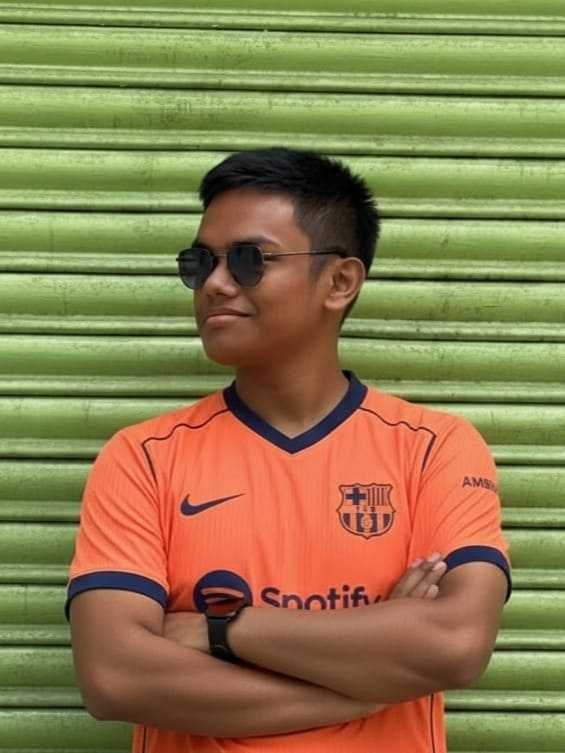
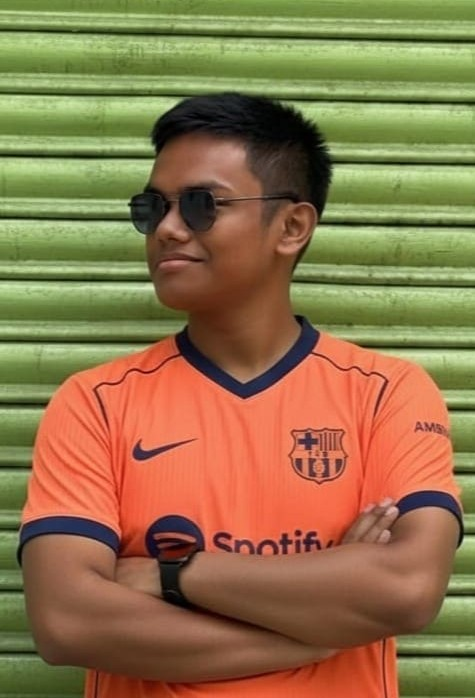
feat: in end credits, pictures will be shuffled before showing, add missing 33.jpg, do some minor changes in design.

diff --git a/src/pages/Prologue.jsx b/src/pages/Prologue.jsx
@@ -176,6 +176,10 @@ const StickyNoteMini = ({ post, index }) => {
           <div className="push-pin -top-3" />
 
           <div className="absolute inset-0 opacity-20 pointer-events-none" style={{ backgroundImage: 'repeating-linear-gradient(transparent, transparent 27px, #4A90E2 27px, #4A90E2 28px)', backgroundSize: '100% 28px' }} />
+          
+          {/* Red vertical margin line for classical notebook effect */}
+          <div className="absolute left-[28px] top-0 bottom-0 w-[1px] bg-red-800/20 pointer-events-none"></div>
+          <div className="absolute left-[26px] top-0 bottom-0 w-[1px] bg-red-800/10 pointer-events-none"></div>
 
           {/* Text — blurred by default on desktop, clear on hover */}
           <div
@@ -280,7 +284,7 @@ const InteractiveCastCard = ({ person, idx, containerRef, updateZIndex, currentZ
 
           {/* Oneliner - Filling the space */}
           <div className="flex-1 relative z-10 w-full pt-1 overflow-hidden" data-photo="true">
-            <p className="text-[#2c3e50] font-['Caveat'] text-lg md:text-xl leading-[28px] pointer-events-none text-left">
+            <p className="text-[#2c3e50] font-['Caveat'] text-lg md:text-md leading-[28px] pointer-events-none text-left">
               "{person.oneliner || 'A familiar face from those moments that still linger.'}"
             </p>
           </div>
@@ -353,16 +357,21 @@ const LetterToBatch = () => {
 
           {/* Main Letter Box */}
           <div
-            className="relative bg-[#FDFBF7] p-10 md:p-14 lg:p-18 shadow-[0_20px_60px_rgba(0,0,0,0.15)] border border-[#E5DFD3]"
+            className="relative bg-[#FDFBF7] p-10 md:p-14 shadow-[0_20px_60px_rgba(0,0,0,0.15)] border border-[#E5DFD3]"
             style={{
               backgroundImage: "url('/textures/rice-paper.png')",
             }}
           >
             {/* Elegant Tape (Optimized without blur) */}
-            <div className="absolute -top-4 left-1/2 -translate-x-1/2 w-32 h-8 bg-white/70 rotate-1 z-20 border border-white/20 shadow-[0_2px_10px_rgba(0,0,0,0.05)]"></div>
+            <div className="absolute -top-4 left-1/2 -translate-x-1/2 w-32 h-8 bg-white/60 rotate-1 z-20 border border-white/20 shadow-[0_2px_10px_rgba(0,0,0,0.05)]"></div>
+            {/* Pin */}
+            <div className="push-pin -top-3" />
 
             {/* Subtle Ruled Lines */}
             <div className="absolute inset-0 opacity-[0.2] pointer-events-none" style={{ backgroundImage: 'repeating-linear-gradient(transparent, transparent 27px, #4A90E2 27px, #4A90E2 28px)', backgroundSize: '100% 32px' }} />
+            {/* Red vertical margin line for classical notebook effect */}
+            <div className="absolute left-8 top-0 bottom-0 w-[1px] bg-red-800/20 pointer-events-none"></div>
+            <div className="absolute left-[34px] top-0 bottom-0 w-[1px] bg-red-800/10 pointer-events-none"></div>
 
             {/* Premium Wax Seal */}
             <motion.div
@@ -385,14 +394,14 @@ const LetterToBatch = () => {
             </motion.div>
 
             {/* Letter Content */}
-            <div className="relative z-10 text-[#3A332A]" data-photo="true">
-              <h2 className="font-['Caveat'] text-4xl md:text-5xl text-[#8B2323] mb-8 mt-2 sm:mt-0 font-bold transform -rotate-1">
+            <div className="relative z-10 text-[#3A332A] opacity-95" data-photo="true">
+              <h2 className="font-['Caveat'] text-4xl md:text-5xl text-[#8B2323] mb-11 mt-2 font-bold underline decoration-wavy decoration-[0.1rem] sm:decoration-[0.18rem] underline-offset-10 transform -rotate-1">
                 Dearest Batch of 2026,
               </h2>
-              {/* Scrollable letter body with fade hint */}
+              {/* Scrollable letter body*/}
               <div className="relative">
                 <div
-                  className="space-y-6 font-['Caveat'] text-[20px] md:text-[26px] leading-[32px] md:leading-[32px] text-gray-800/90 overflow-y-auto pr-2 styling-scrollbar"
+                  className="space-y-6 font-['Caveat'] text-[20px] md:text-[26px] leading-[30px] md:leading-[34px] text-gray-800/90 overflow-y-auto pr-2 styling-scrollbar"
                   style={{ maxHeight: '500px' }}
                 >
                   <p>
@@ -407,20 +416,20 @@ const LetterToBatch = () => {
                   </div>
 
                   <p>
-                    If these years taught us anything, it's that time is the only currency we can't earn back. We learned that friendship isn't about being inseparable, but about being able to separate and knowing that nothing will change. Some of us will drift, and that is life’s natural rhythm; but the ink of these days is permanent.
+                    If these years taught us anything, it's that time is the only currency we can't earn back. Somewhere between deadlines and detours, we learned that friendship isn’t measured by constant presence, but by quiet certainty - the kind that survives distance, silence, and change. Some of us will drift, and that is life’s natural rhythm; but the ink of these days can never be erased...
                   </p>
 
                   <p>
-                    As we scatter into the unknown, carry these days not as a heavy anchor, but as a sail. No matter where life takes us or how many miles lie between us, we will always be the keepers of this shared story. Let us remain this way-kind, brave, and connected - carrying the spirit of these days into every new chapter we write. 
+                    As we scatter into the unknown, carry these days not as a weight, but as a wind - let them move you forward. 'Cause no matter where life takes us or how many miles lie between us, we will always be the keepers of this shared story. Let us remain this way - kind, brave, and connected - carrying the spirit of these days into every new chapter we write.
                   </p>
 
-                  <p>We may leave as individuals, but we’ll always be this batch - this family. We were here, we were together, and we’ll always be 'us'... <span className='text-[#8B2323] font-bold'>:)</span> </p>
-                  
+                  <p>We may leave as individuals, but we’ll always be this batch - this family. We were here, we were together, and we’ll always be 'us'... <span className='text-[#8B2323] font-bold sm:hidden inline'>:)</span> </p>
+
                 </div>
               </div>
 
               {/* Signature */}
-              <div className="mt-10 text-right">
+              <div className="mt-6 text-right">
                 <span className="font-['Caveat'] text-2xl md:text-3xl font-bold text-[#8B2323] inline-block transform -rotate-2">
                   — The Memories We Made
                 </span>
@@ -524,7 +533,7 @@ const Prologue = () => {
         <section className="py-24 md:py-30 relative z-20">
           <div className="max-w-[1400px] mx-auto px-4 flex flex-col lg:flex-row items-center justify-between gap-12 lg:gap-24">
 
-            <motion.div 
+            <motion.div
               initial={{ opacity: 0, y: 30 }}
               whileInView={{ opacity: 1, y: 0 }}
               viewport={{ once: true, margin: "-50px" }}
@@ -577,7 +586,7 @@ const Prologue = () => {
             <div className="max-w-[1400px] mx-auto px-4 flex flex-col lg:flex-row items-center justify-between gap-12 lg:gap-24">
 
               {/* Left Text */}
-              <motion.div 
+              <motion.div
                 initial={{ opacity: 0, y: 30 }}
                 whileInView={{ opacity: 1, y: 0 }}
                 viewport={{ once: true, margin: "-50px" }}
@@ -642,7 +651,7 @@ const Prologue = () => {
           <div className="max-w-[1400px] mx-auto px-4 flex flex-col lg:flex-row items-center justify-between gap-12 lg:gap-24">
 
             {/* Left Text */}
-            <motion.div 
+            <motion.div
               initial={{ opacity: 0, y: 30 }}
               whileInView={{ opacity: 1, y: 0 }}
               viewport={{ once: true, margin: "-50px" }}
@@ -712,7 +721,7 @@ const Prologue = () => {
         <section className="py-24 md:py-30 relative z-20">
           <div className="max-w-[1400px] mx-auto px-4 text-center relative">
 
-            <motion.div 
+            <motion.div
               initial={{ opacity: 0, y: 30 }}
               whileInView={{ opacity: 1, y: 0 }}
               viewport={{ once: true, margin: "-50px" }}

diff --git a/src/pages/TheCast.jsx b/src/pages/TheCast.jsx
@@ -219,7 +219,7 @@ const CastDossier = ({ person, onClose }) => {
                 {person.funnyPhoto && (
                   <DraggableItem constraintsRef={constraintsRef} defaultLeft={pos.photo2.left} defaultTop={pos.photo2.top} initialRotate={7} delay={0.25}>
                     <div style={{ position: 'absolute', top: -8, left: '50%', transform: 'translateX(-50%) rotate(-2deg)', width: 55, height: 18, background: 'rgba(180,210,240,0.75)', backdropFilter: 'blur(2px)', zIndex: 30, clipPath: 'polygon(0 10%,3% 0%,6% 10%,9% 0%,12% 8%,15% 0%,100% 0%,100% 100%,0% 100%)' }} />
-                    <div style={{ background: '#f5f0e0', padding: '8px 8px 28px', width: isMobile ? 160 : 200, boxShadow: '3px 6px 22px rgba(0,0,0,0.35)', clipPath: 'polygon(1% 0%,4% 1.5%,8% 0%,13% 1%,18% 0%,23% 1.5%,28% 0%,33% 1%,38% 0%,43% 1.5%,48% 0%,53% 1%,58% 0%,63% 1.5%,68% 0%,73% 1%,78% 0%,83% 1.5%,88% 0%,93% 1%,98% 0%,100% 0%,100% 100%,0% 100%)', filter: 'sepia(0.1)' }}>
+                    <div style={{ background: '#f5f0e0', padding: '8px 8px 28px', width: isMobile ? 160 : 200, boxShadow: '3px 6px 22px rgba(0,0,0,0.35)', clipPath: 'polygon(1% 0%,4% 1.5%,8% 0%,13% 1%,18% 0%,23% 1.5%,28% 0%,33% 1%,38% 0%,43% 1.5%,48% 0%,53% 1%,58% 0%,63% 1.5%,68% 0%,73% 1%,78% 0%,83% 1.5%,88% 0%,93% 1%,98% 0%,100% 0%,100% 100%,0% 100%)', filter: 'sepia(0.2)' }}>
                       <div style={{ backgroundImage: (person.funnyPhoto?.startsWith('http') || person.funnyPhoto?.startsWith('/')) ? `url('${person.funnyPhoto}')` : person.funnyPhoto, backgroundSize: 'cover', backgroundPosition: 'center top', width: '100%', aspectRatio: '9/10', filter: 'sepia(0.3) contrast(1.04)' }} />
                       <p style={{ fontFamily: 'Caveat,cursive', fontSize: 18, color: '#451a03', fontWeight: 700, textAlign: 'center', marginTop: 8, opacity: 0.8 }}>“Time well lived...”</p>
                     </div>
@@ -228,9 +228,9 @@ const CastDossier = ({ person, onClose }) => {
 
                 {/* 3. Handwritten note */}
                 <DraggableItem constraintsRef={constraintsRef} defaultLeft={pos.note.left} defaultTop={pos.note.top} initialRotate={-5} delay={0.4}>
-                  <div style={{ width: isMobile ? 180 : 265, background: '#fdfaf0', padding: '22px 16px 18px', boxShadow: '3px 8px 22px rgba(0,0,0,0.28)', backgroundImage: 'repeating-linear-gradient(#fdfaf0 0px,#fdfaf0 27px,rgba(96,152,204,0.5) 27px,rgba(96,152,204,0.5) 28px)', backgroundSize: '100% 28px', backgroundPosition: '0 4px', borderLeft: '3px solid rgba(220,80,80,0.35)', clipPath: 'polygon(0 0,100% 0,100% 94%,97% 96%,94% 94%,91% 97%,88% 94%,85% 97%,82% 94%,79% 97%,76% 94%,73% 97%,70% 94%,67% 97%,64% 94%,61% 97%,58% 94%,55% 97%,52% 94%,49% 97%,46% 94%,43% 97%,40% 94%,37% 97%,34% 94%,31% 97%,28% 94%,25% 97%,22% 94%,19% 97%,16% 94%,13% 97%,10% 94%,7% 97%,4% 94%,1% 97%,0 94%)' }}>
+                  <div style={{ width: isMobile ? 200 : 275, background: '#fdfaf0', padding: '22px 16px 18px', boxShadow: '3px 8px 22px rgba(0,0,0,0.28)', backgroundImage: 'repeating-linear-gradient(#fdfaf0 0px,#fdfaf0 27px,rgba(96,152,204,0.5) 27px,rgba(96,152,204,0.5) 28px)', backgroundSize: '100% 28px', backgroundPosition: '0 4px', borderLeft: '3px solid rgba(220,80,80,0.35)', clipPath: 'polygon(0 0,100% 0,100% 94%,97% 96%,94% 94%,91% 97%,88% 94%,85% 97%,82% 94%,79% 97%,76% 94%,73% 97%,70% 94%,67% 97%,64% 94%,61% 97%,58% 94%,55% 97%,52% 94%,49% 97%,46% 94%,43% 97%,40% 94%,37% 97%,34% 94%,31% 97%,28% 94%,25% 97%,22% 94%,19% 97%,16% 94%,13% 97%,10% 94%,7% 97%,4% 94%,1% 97%,0 94%)' }}>
                     <div style={{ position: 'absolute', top: 10, left: '50%', transform: 'translateX(-50%)', width: 14, height: 14, borderRadius: '50%', background: 'rgba(200,180,140,0.6)', border: '1.5px solid rgba(160,130,90,0.5)' }} />
-                    <p style={{ fontFamily: 'Caveat,cursive', fontSize: isMobile ? 18 : 22, color: '#3d1a00', lineHeight: '28px', paddingTop: 4, textAlign: 'center' }}>&ldquo;{person.oneliner || 'A familiar face from those moments that still linger.'}&rdquo;</p>
+                    <p style={{ fontFamily: 'Caveat,cursive', fontSize: isMobile ? 20 : 24, color: '#3d1a00', lineHeight: '28px', paddingTop: 4, textAlign: 'center' }}>&ldquo;{person.oneliner || 'A familiar face from those moments that still linger.'}&rdquo;</p>
                     <p style={{ fontFamily: 'Caveat,cursive', fontSize: 15, color: 'rgba(120,53,15,0.55)', textAlign: 'right', marginTop: 6 }}>— a note ✦</p>
                   </div>
                 </DraggableItem>

diff --git a/src/pages/OurNotes.jsx b/src/pages/OurNotes.jsx
@@ -42,12 +42,16 @@ const PremiumStickyNote = ({ post, index }) => {
           {/* Ruled Lines */}
           <div className="absolute inset-0 opacity-20 pointer-events-none" style={{ backgroundImage: 'repeating-linear-gradient(transparent, transparent 27px, #4A90E2 27px, #4A90E2 28px)', backgroundSize: '100% 28px' }} />
 
+          {/* Red vertical margin line for classical notebook effect */}
+          <div className="absolute left-[28px] top-0 bottom-0 w-[1px] bg-red-800/20 pointer-events-none"></div>
+          <div className="absolute left-[26px] top-0 bottom-0 w-[1px] bg-red-800/10 pointer-events-none"></div>
+
           {/* Doodles inside note */}
           {showHeart && <DoodleHeart className="absolute top-4 left-2 w-10 h-10 opacity-40 -rotate-[15deg] mix-blend-multiply" color="#8B2323" />}
           {showCrown && <DoodleCrown className="absolute top-2 right-2 w-10 h-10 rotate-12 opacity-40 mix-blend-multiply" color="#1e3a8a" />}
 
           {/* Content */}
-          <div className={`font-['Caveat'] ${textSize} leading-[28px] text-[#2c3e50] w-full mt-2 text-center styling-scrollbar relative z-10`} style={contentStyle} data-photo="true">
+          <div className={`font-['Caveat'] ${textSize} leading-[28px] text-[#2c3e50] w-full mt-2 text-center opacity-95 styling-scrollbar relative z-10`} style={contentStyle} data-photo="true">
             "{post.content}"
           </div>
 
@@ -68,13 +72,13 @@ const PremiumStickyNote = ({ post, index }) => {
 
           {/* Footer Info */}
           <div className="mt-8 w-full flex justify-between items-end border-t border-black/5 pt-4 relative z-10">
-            <span className="font-['Caveat'] text-2xl font-bold text-[#1e3a8a]">{post.author}</span>
+            <span className="font-['Caveat'] text-2xl font-bold text-[#1e3a8a] opacity-90">{post.author}</span>
             <span className="text-[10px] text-[#8b95a5] font-sans tracking-[0.15em] uppercase font-semibold">{new Date(post.timestamp).toLocaleDateString()}</span>
           </div>
 
           {/* Vintage Round Stamp */}
           <div
-            className="absolute bottom-3 right-3 w-[72px] h-[72px] border-[2.5px] border-red-800/50 rounded-full flex items-center justify-center rotate-[-15deg] z-30 opacity-50 shadow-sm pointer-events-none"
+            className="absolute bottom-3 right-3 w-[72px] h-[72px] border-[2.5px] border-red-800/50 rounded-full flex items-center justify-center rotate-[-15deg] z-30 opacity-40 shadow-sm pointer-events-none"
           >
             <div className="border-[1.5px] border-dashed border-red-800/50 rounded-full w-[60px] h-[60px] flex items-center justify-center text-center leading-none">
               <span className="text-[10px] font-bold text-red-800/70 uppercase tracking-tighter block mt-0.5">

diff --git a/src/components/ui/EndCredits.jsx b/src/components/ui/EndCredits.jsx
@@ -211,9 +211,24 @@ const DoodleLayer = () => (
 );
 
 
+// ── Fisher-Yates shuffle helper ────────────────────────────────────────────────
+function shuffleArray(arr) {
+  const a = [...arr];
+  for (let i = a.length - 1; i > 0; i--) {
+    const j = Math.floor(Math.random() * (i + 1));
+    [a[i], a[j]] = [a[j], a[i]];
+  }
+  return a;
+}
+
 // ── Film strip ─────────────────────────────────────────────────────────────────
 const FilmStrip = ({ isPaused }) => {
-  const frames = [...galleryData, ...galleryData];
+  // Shuffle once per mount so every credits play shows a different order;
+  // duplicate for seamless infinite loop
+  const frames = React.useMemo(() => {
+    const shuffled = shuffleArray(galleryData);
+    return [...shuffled, ...shuffled];
+  }, []);
   const filmRef = useRef(null);
 
   useEffect(() => {
@@ -263,10 +278,10 @@ const FilmStrip = ({ isPaused }) => {
                 background: 'linear-gradient(to top, rgba(8, 5, 0, 0.92) 0%, transparent 100%)',
                 padding: '18px 8px 6px',
               }}>
-                <p style={{ fontFamily: MONO, fontSize: '1rem', color: 'rgba(220,160,20,0.9)', margin: 0, overflow: 'hidden', textOverflow: 'ellipsis', whiteSpace: 'nowrap' }}>
+                <p style={{ fontFamily: MONO, fontSize: '0.8rem', color: 'rgba(220,160,20,0.9)', margin: 0, overflow: 'hidden', textOverflow: 'ellipsis', whiteSpace: 'nowrap' }}>
                   {photo.caption}
                 </p>
-                <p style={{ fontFamily: MONO, fontSize: '0.9rem', color: 'rgba(200,140,20,0.45)', margin: '2px 0 0', letterSpacing: '0.2em' }}>
+                <p style={{ fontFamily: MONO, fontSize: '0.7rem', color: 'rgba(200,140,20,0.45)', margin: '2px 0 0', letterSpacing: '0.2em' }}>
                   {String((i % galleryData.length) + 1).padStart(2, '0')} / {galleryData.length} ▲ {photo.year}
                 </p>
               </div>

diff --git a/src/pages/Scrapbook.jsx b/src/pages/Scrapbook.jsx
@@ -7,7 +7,7 @@ import GalleryGrid from '../components/sections/ScrapbookGrid';
 import Lightbox from '../components/ui/Lightbox';
 import ChapterNav from '../components/ui/ChapterNav';
 import Fireflies from '../components/ui/Fireflies';
-import { DoodleSparkle, DoodleArrow, DoodleCrown } from '../components/ui/VintageDoodles';
+import { DoodleSparkle, DoodleArrow } from '../components/ui/VintageDoodles';
 import { galleryData } from '../data/scrapbook';
 
 const years = ["All", "1st Year", "2nd Year", "3rd Year", "4th Year"];
@@ -79,7 +79,7 @@ const Scrapbook = () => {
         </div>
 
         {/* Firefly Particles */}
-        <div className="absolute inset-0 pointer-events-none z-10"><Fireflies count={30}/></div>
+        <div className="absolute inset-0 pointer-events-none z-10"><Fireflies count={20}/></div>
 
         <div className="py-24 pb-30 relative z-20">
           <div className="max-w-[1400px] mx-auto px-4 relative z-10">
@@ -95,7 +95,7 @@ const Scrapbook = () => {
               <DoodleSparkle className="w-20 h-20 absolute top-10 right-10 md:right-40 opacity-30 mix-blend-screen hidden md:block" color="#F59E0B" />
               
               <SectionHeading
-                title="Our Scrapbook"
+                title="Scrapbook"
                 subtitle="Fragments of time we chose to keep."
                 eyebrow="Scattered Memories"
               />

diff --git a/src/data/scrapbook.js b/src/data/scrapbook.js
@@ -44,5 +44,5 @@ export const galleryData = [
   { id: 41, src: "/images/scrapbook/41.jpg", caption: "East Sikkim '26. The winding roads were terrifying but totally worth it! ☃", album: "Trips", year: "2026" },
   { id: 42, src: "/images/scrapbook/42.jpg", caption: "At 12,400 ft. - Tsongmo Lake, East Sikkim ❄", album: "Trips", year: "2026" },
   { id: 43, src: "/images/scrapbook/43.webp", caption: "Moments from East Sikkim Trip: MG Marg, Gangtok.💸", album: "Trips", year: "2026" },
-  { id: 44, src: "/images/scrapbook/33.jpeg", caption: "Another fragment from the Darjeeling diaries...", album: "Trips", year: "2025" },
+  { id: 44, src: "/images/scrapbook/33.jpg", caption: "Another fragment from the Darjeeling diaries...", album: "Trips", year: "2025" },
 ];

diff --git a/src/data/cast.js b/src/data/cast.js
@@ -142,6 +142,7 @@ export const peopleData =
     nickname: "Modder📱",
     roll: "10600122009",
     photo: "/images/cast/roni.jpg",
+    funnyPhoto: "/images/cast/roni2.webp",
     department: "Computer Science",
     birthday: "05-24",
     oneliner: "Living in his own digital universe - modding apps, gaming hard, and caring little for the noise around.",
@@ -285,6 +286,7 @@ export const peopleData =
     nickname: "JugaadMind🧠",
     roll: "10600122002",
     photo: "/images/cast/abhijit.jpg",
+    funnyPhoto: "/images/cast/abhijit2.webp",
     department: "Computer Science",
     birthday: "",
     oneliner: "Hardworking by nature, helpful by instinct - even when paths changed, he was always the one who found a way to fix things.",

diff --git a/src/components/sections/Hero.jsx b/src/components/sections/Hero.jsx
@@ -32,7 +32,7 @@ const InteractivePolaroid = ({ p, containerRef, updateZIndex }) => {
       dragElastic={0.1}
       onDragStart={() => updateZIndex(p.id)}
       initial={{ opacity: 0, scale: 0.8, rotate: p.rot - 20 }}
-      animate={{ opacity: 0.65, scale: 1, rotate: p.rot }}
+      animate={{ opacity: 0.7, scale: 1, rotate: p.rot }}
       transition={{ duration: 1, delay: p.delay, ease: 'easeOut' }}
       className="group cursor-grab active:cursor-grabbing"
       style={{

diff --git a/src/pages/Chapters.jsx b/src/pages/Chapters.jsx
@@ -198,7 +198,7 @@ const Chapters = () => {
               <DoodleCrown className="w-20 h-20 absolute top-0 right-10 md:right-40 opacity-30 rotate-12 mix-blend-screen hidden md:block" color="#F59E0B" />
 
               <SectionHeading
-                title="The Chapters"
+                title="Chapters"
                 subtitle="The story we lived, not just remembered."
                 eyebrow="Four Year Stories"
               />
